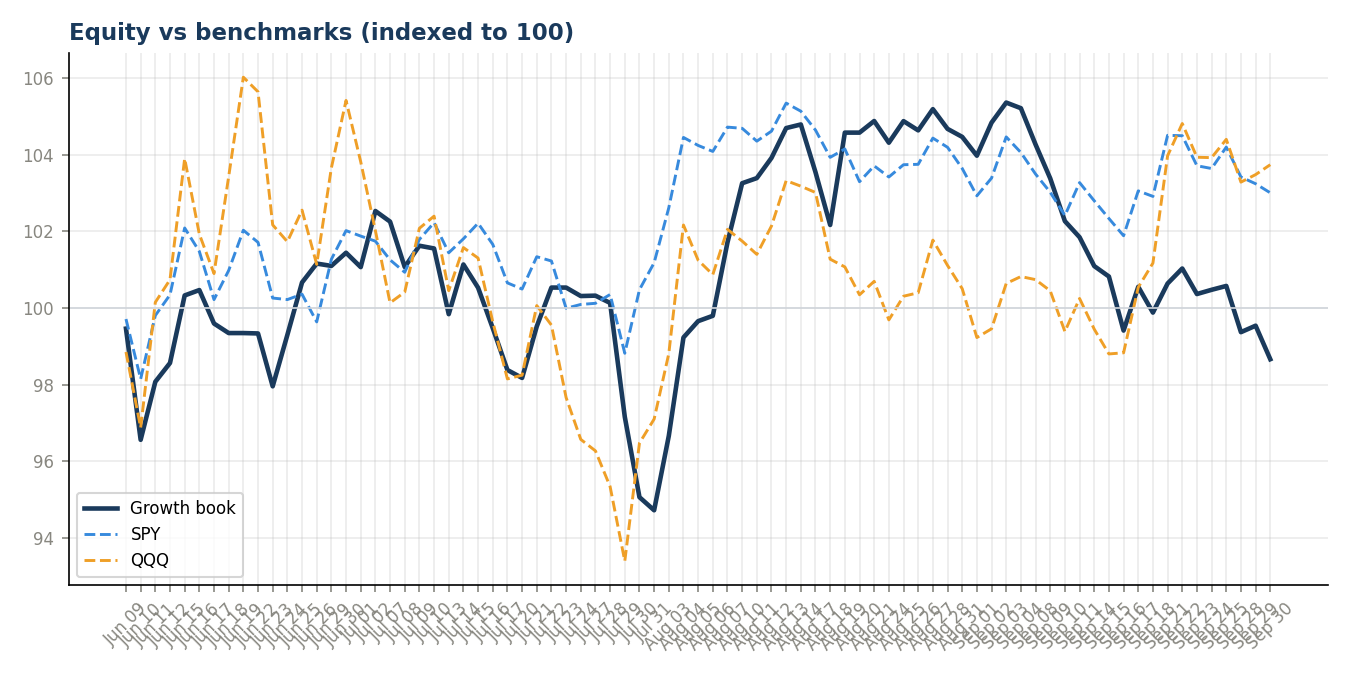
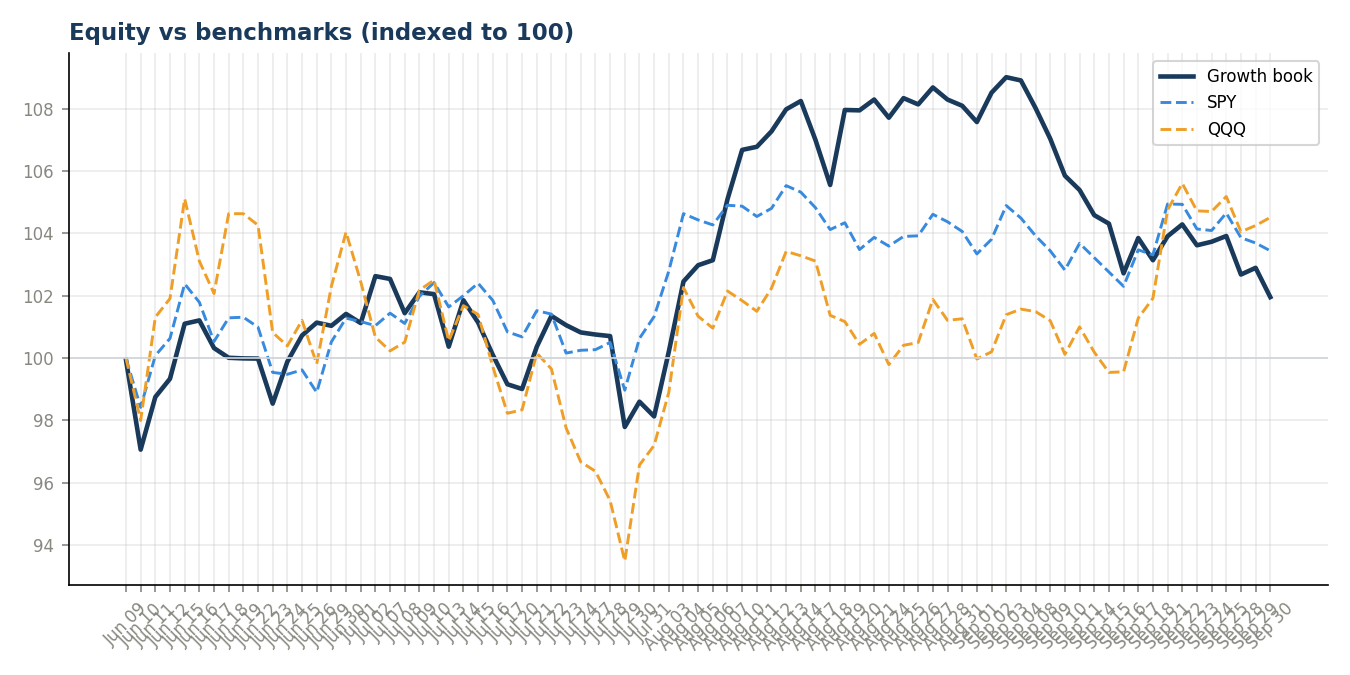
Growth month-end: equity-chained returns, period metrics, month cutoff
- Daily returns now chained from logged equity (the logger's
  day_change_pct uses Alpaca's sometimes-stale last_equity, e.g.
  2026-07-30 -2.16% on a +0.83% day; it drifted ~2.8pp in total)
- Sharpe/Sortino/Calmar/vol over the actual trading days; only annual
  return is annualized, labelled as an extrapolation (same as Momentum)
- Months chained from the go-live base so they telescope exactly
- Trades cut at the reviewed month's end (NY date): the Oct 1 rebalance
  no longer leaks into the September report
- Regenerated 2026-09 report; README Growth section updated

diff --git a/9_aria_growth/aria_growth_month_end.py b/9_aria_growth/aria_growth_month_end.py
@@ -35,6 +35,7 @@ one month are indicative, not conclusive.
 """
 
 import argparse
+import json
 import warnings
 from datetime import datetime
 from pathlib import Path
@@ -53,6 +54,7 @@ POS_FILE  = _HERE / "daily_positions.csv"
 PORT_FILE = _HERE / "daily_portfolio.csv"
 TRADE_FILE= _HERE / "growth_trade_log.csv"
 MANIFEST  = _HERE / "screens" / "_manifest.csv"
+LOG_STATE = _HERE / "daily_log_state.json"   # go-live equity_base (logger)
 
 GREEN, RED, BLUE, AMBER = "#1D9E75", "#E24B4A", "#378ADD", "#EF9F27"
 NAVY, GREY, MGREY = "#1A3A5C", "#888780", "#D1D5DB"
@@ -76,8 +78,51 @@ def load():
 # ══════════════════════════════════════════════════════════════════════════════
 # QUANT METRICS
 # ══════════════════════════════════════════════════════════════════════════════
+def _equity_base(port: pd.DataFrame) -> float:
+    """Go-live capital recorded by aria_growth_daily_log.py (the base of
+    total_pnl_pct); falls back to backing it out of the first row."""
+    try:
+        return float(json.loads(LOG_STATE.read_text())["equity_base"])
+    except Exception:
+        return float(port["equity"].iloc[0] / (1 + port["total_pnl_pct"].iloc[0] / 100))
+
+
+def period_stats(r, eqv) -> dict:
+    """Risk/return over the ACTUAL trading days only — nothing annualized
+    except ann_ret, which is an explicit extrapolation.
+    (Same definitions as 8_live_trading/aria_momentum_month_end.py.)
+
+      period_ret  compounded return over the n days
+      ann_ret     EXTRAPOLATED: (1 + period_ret)^(252/n) − 1 — a projection
+      period_vol  daily stdev × √n
+      sharpe      mean / stdev × √n            (period Sharpe, rf = 0)
+      sortino     mean / downside dev × √n     downside dev = √mean(min(r,0)²)
+      calmar      period_ret / |max drawdown|  (same window)
+    """
+    r = np.asarray(r, dtype=float); r = r[~np.isnan(r)]
+    n = len(r)
+    out = {"n_obs": n}
+    out["period_ret"] = (np.prod(1 + r) - 1) * 100
+    out["ann_ret"]    = ((1 + out["period_ret"] / 100) ** (TRADING_DAYS / n) - 1) * 100 if n else np.nan
+    mu, sd = (r.mean(), r.std(ddof=1)) if n > 1 else (np.nan, np.nan)
+    dsd = np.sqrt(np.mean(np.minimum(r, 0) ** 2)) if n else np.nan
+    out["period_vol"] = sd * np.sqrt(n) * 100 if sd > 0 else np.nan
+    out["sharpe"]     = mu / sd * np.sqrt(n) if sd > 0 else np.nan
+    out["sortino"]    = mu / dsd * np.sqrt(n) if dsd > 0 else np.nan
+    eqv = np.asarray(eqv, dtype=float)
+    out["max_dd"] = (eqv / np.maximum.accumulate(eqv) - 1).min() * 100 if len(eqv) > 1 else 0.0
+    out["calmar"] = out["period_ret"] / abs(out["max_dd"]) if out["max_dd"] < 0 else np.nan
+    return out
+
+
 def quant_metrics(port: pd.DataFrame) -> dict:
-    r = port["day_change_pct"].values / 100.0          # daily book returns
+    # Daily book returns CHAINED FROM EQUITY (first day vs the go-live base).
+    # Not day_change_pct: the logger measures that against Alpaca's
+    # last_equity, which can be stale (e.g. 2026-07-30 logs -2.16% while
+    # equity rose +0.83%); compounded it misses the logged total by ~3pp.
+    base = _equity_base(port)
+    eqv  = np.r_[base, port["equity"].values]
+    r    = eqv[1:] / eqv[:-1] - 1
     spy = port["spy_day_pct"].values / 100.0
     qqq = port["qqq_day_pct"].values / 100.0
     n = len(r)
@@ -89,20 +134,9 @@ def quant_metrics(port: pd.DataFrame) -> dict:
     m["alpha_spy"]  = m["total_ret"] - m["spy_since"]
     m["alpha_qqq"]  = m["total_ret"] - m["qqq_since"]
 
-    mu, sd = np.nanmean(r), np.nanstd(r, ddof=1)
-    downside = np.nanstd(np.minimum(r, 0), ddof=1)
-    m["ann_ret"]    = mu * TRADING_DAYS * 100
-    m["ann_vol"]    = sd * np.sqrt(TRADING_DAYS) * 100
-    m["sharpe"]     = (mu / sd * np.sqrt(TRADING_DAYS)) if sd > 0 else np.nan
-    m["sortino"]    = (mu / downside * np.sqrt(TRADING_DAYS)) if downside > 0 else np.nan
-
-    # drawdown from the daily equity curve
+    m.update(period_stats(r, eqv))
     eq = port["equity"].values
-    peak = np.maximum.accumulate(eq)
-    dd = eq / peak - 1
-    m["max_dd"] = dd.min() * 100
-    m["dd_series"] = dd * 100
-    m["calmar"] = (m["ann_ret"] / abs(m["max_dd"])) if m["max_dd"] < 0 else np.nan
+    m["dd_series"] = (eq / np.maximum.accumulate(eqv)[1:] - 1) * 100
 
     # benchmark relationship
     mask = ~np.isnan(r) & ~np.isnan(spy)
@@ -121,9 +155,10 @@ def quant_metrics(port: pd.DataFrame) -> dict:
     m["hit_rate"] = m["win_days"] / max(m["win_days"] + m["lose_days"], 1) * 100
 
     # indexed curves
-    m["idx_book"] = 100 * (1 + pd.Series(r).fillna(0)).cumprod().values
-    m["idx_spy"]  = 100 * (1 + pd.Series(spy).fillna(0)).cumprod().values
-    m["idx_qqq"]  = 100 * (1 + pd.Series(qqq).fillna(0)).cumprod().values
+    # from the cumulative columns: one shared go-live base, ends on the table
+    m["idx_book"] = 100 * port["equity"].values / base
+    m["idx_spy"]  = 100 + port["spy_since_pct"].values
+    m["idx_qqq"]  = 100 + port["qqq_since_pct"].values
     m["r"], m["spy_r"], m["qqq_r"] = r, spy, qqq
     return m
 
@@ -157,13 +192,15 @@ def month_by_month(port: pd.DataFrame) -> pd.DataFrame:
     port = port.sort_values("date").reset_index(drop=True)
     ym = port["date"].dt.to_period("M")
     months = sorted(ym.unique())
-    current_month = pd.Timestamp.now().to_period("M")
+    current_month = pd.Timestamp.now(tz="America/New_York").tz_localize(None).to_period("M")
 
     idx_spy = 100 * (1 + port["spy_since_pct"] / 100)
     idx_qqq = 100 * (1 + port["qqq_since_pct"] / 100)
 
     rows = []
-    prev_eq = prev_spy = prev_qqq = None
+    # start from the go-live base (not the first row) so the months compound
+    # exactly to the since-inception return
+    prev_eq, prev_spy, prev_qqq = _equity_base(port), 100.0, 100.0
     for i, mo in enumerate(months):
         mask = ym == mo
         g, gi_spy, gi_qqq = port[mask], idx_spy[mask], idx_qqq[mask]
@@ -346,9 +383,16 @@ def write_report(qm, pm_pos, pm_exits, trades, mbm, outdir: Path, month_tag: str
     A("\n_* partial month (first month is partial from go-live; the current "
       "month is partial too, through the latest logged row)._\n")
 
-    A("## Risk-adjusted (annualized from daily)")
+    A(f"## Risk-adjusted (over the {qm['n_obs']} trading days — not annualized)")
+    A(f"_Sharpe, Sortino, Calmar and volatility are measured over the "
+      f"{qm['n_obs']} trading days actually traded (rf = 0), from daily returns "
+      f"chained off logged equity. The only annualized figure is **Ann. return**, "
+      f"an EXTRAPOLATION: the period return compounded to 252 trading days — "
+      f"a projection, not a measurement._\n")
+    A(f"- Period return **{qm['period_ret']:+.2f}%**  |  Period vol {qm['period_vol']:.2f}%  |  "
+      f"Max drawdown {qm['max_dd']:.2f}%")
     A(f"- Sharpe: **{qm['sharpe']:.2f}**   |   Sortino: **{qm['sortino']:.2f}**   |   Calmar: {qm['calmar']:.2f}")
-    A(f"- Ann. return {qm['ann_ret']:+.1f}%  |  Ann. vol {qm['ann_vol']:.1f}%  |  Max drawdown {qm['max_dd']:.2f}%")
+    A(f"- Ann. return (extrapolated) {qm['ann_ret']:+.1f}%")
     A(f"- Beta vs SPY {qm['beta_spy']:.2f} (corr {qm['corr_spy']:.2f})")
     A(f"- Up-capture {qm['up_capture']:.0f}%  |  Down-capture {qm['down_capture']:.0f}%  "
       f"{'← winning by losing less' if qm['down_capture'] < qm['up_capture'] else ''}")
@@ -399,6 +443,11 @@ def main():
 
     pos, port, trades = load()
     month_tag = port["date"].max().strftime("%Y-%m")
+    # Only trades up to the end of the reviewed month (New York date): the
+    # next month's rebalance can be placed before its first daily-log row.
+    cutoff = pd.Period(month_tag, "M").end_time
+    ts = pd.to_datetime(trades["timestamp"], utc=True).dt.tz_convert("America/New_York").dt.tz_localize(None)
+    trades = trades[ts <= cutoff].reset_index(drop=True)
     outdir = _HERE / "month_end" / month_tag
     outdir.mkdir(parents=True, exist_ok=True)
 
@@ -416,7 +465,9 @@ def main():
     print("=" * 66)
     print(f"  Return   : {qm['total_ret']:+.2f}%   (SPY {qm['spy_since']:+.2f}%, QQQ {qm['qqq_since']:+.2f}%)")
     print(f"  Alpha    : vs SPY {qm['alpha_spy']:+.2f}pp | vs QQQ {qm['alpha_qqq']:+.2f}pp")
-    print(f"  Sharpe   : {qm['sharpe']:.2f}   Sortino {qm['sortino']:.2f}   MaxDD {qm['max_dd']:.2f}%")
+    print(f"  Period   : {qm['n_obs']}d  Sharpe {qm['sharpe']:.2f}   Sortino {qm['sortino']:.2f}   "
+          f"Calmar {qm['calmar']:.2f}   vol {qm['period_vol']:.2f}%  (not annualized)")
+    print(f"  Ann. ret : {qm['ann_ret']:+.1f}% (extrapolated)   MaxDD {qm['max_dd']:.2f}%")
     print(f"  Beta     : {qm['beta_spy']:.2f}   Up-cap {qm['up_capture']:.0f}%  Down-cap {qm['down_capture']:.0f}%")
     print(f"  Hit rate : {qm['hit_rate']:.0f}%  ({qm['win_days']}W/{qm['lose_days']}L)")
     if len(pm_exits):

diff --git a/README.md b/README.md
@@ -596,27 +596,36 @@ QQQ +0.1%, GLD -6.3% ($37,762 at cost).
 | Return since go-live   | **+1.96%** | +3.44%  | +4.51%  |
 | Alpha                   | —          | -1.48pp | -2.55pp |
 
-**Risk-adjusted** (annualized from daily):
+**Risk-adjusted** — measured over the 79 trading days actually traded, not
+annualized (daily returns chained from logged equity, rf = 0):
 
-| Sharpe    | Sortino   | Calmar    | Ann. return | Ann. vol | Max drawdown |
-| --------- | --------- | --------- | ----------- | -------- | ------------- |
-| **-0.17** | **-0.28** | **-0.44** | -2.9%       | 17.0%    | **-6.47%**    |
+| Period return | Sharpe   | Sortino  | Calmar   | Period vol | Max drawdown | Ann. return (extrapolated) |
+| ------------- | -------- | -------- | -------- | ---------- | ------------- | -------------------------- |
+| **+1.96%**    | **0.26** | **0.37** | **0.30** | 9.13%      | **-6.47%**    | +6.4%                      |
 
-Beta vs SPY 0.83 (corr 0.60) · up-capture 74% / down-capture 89% (now losing
-more on down days than it captures on up days) · hit rate 47% (36W/40L) ·
-best day +2.66% · worst -2.97%.
+_Same method as ARIA-Momentum: only **Ann. return** is annualized, as an
+**extrapolation** of the 79-day return to 252 trading days — not a measured
+result. Daily returns now come from the logged equity curve; the logger's
+own day-change column was measured against a sometimes-stale Alpaca
+prior-day value (e.g. 2026-07-30 showed -2.16% on a +0.83% day), which had
+pushed the previously published Sharpe to -0.17._
+
+Beta vs SPY 0.92 (corr 0.69) · up-capture 83% / down-capture 84% (losing
+about as much on down days as it captures on up days) · hit rate 46%
+(36W/43L) · best day +2.28% · worst -2.89%.
 
 **Month-by-month:**
 
 | Month     | Days | Book    | SPY    | QQQ    | vs SPY  | vs QQQ  |
 | --------- | ---- | ------- | ------ | ------ | ------- | ------- |
-| Jun 2026* | 16   | +1.48%  | +1.29% | +4.04% | +0.19pp | -2.56pp |
+| Jun 2026* | 16   | +1.42%  | +1.28% | +4.04% | +0.14pp | -2.62pp |
 | Jul 2026  | 21   | -3.24%  | +0.05% | -6.57% | -3.29pp | +3.33pp |
 | Aug 2026  | 21   | +10.15% | +2.69% | +4.18% | +7.46pp | +5.97pp |
 | Sep 2026  | 21   | -5.68%  | -0.60% | +3.21% | -5.08pp | -8.89pp |
 
-_* partial month — June starts at the 2026-06-09 go-live. August is now a
-full month (revised from the partial +10.35% shown in the Aug 31 report)._
+_* partial month — June starts at the 2026-06-09 go-live capital. The four
+months compound exactly to the since-go-live return. August is a full month
+(revised from the partial +10.35% shown in the Aug 31 report)._
 
 16 open positions (10 in profit as of 2026-09-30); best PLTR +40.6%, worst
 EQT -9.1% (danger zone, <10pt to stop: EQT, EXE, VST, CVNA, BG). 10 exits

diff --git a/9_aria_growth/month_end/2026-09/report_2026-09.md b/9_aria_growth/month_end/2026-09/report_2026-09.md
@@ -1,6 +1,6 @@
 # ARIA-Growth — Month-End Review 2026-09
 
-_Generated 2026-10-01 02:06. Read-only analysis; 79 trading days of data._
+_Generated 2026-10-01 18:49. Read-only analysis; 79 trading days of data._
 
 > **Sample-size caveat:** one month verifies the machinery and shows behavior; it cannot prove or disprove edge. Treat every number below as indicative, not conclusive.
 
@@ -13,19 +13,22 @@ _Generated 2026-10-01 02:06. Read-only analysis; 79 trading days of data._
 ## Month-by-month
 | Month | Days | Book | SPY | QQQ | vs SPY | vs QQQ |
 |---|---|---|---|---|---|---|
-| Jun 2026* | 16 | +1.48% | +1.29% | +4.04% | +0.19pp | -2.56pp |
+| Jun 2026* | 16 | +1.42% | +1.28% | +4.04% | +0.14pp | -2.62pp |
 | Jul 2026 | 21 | -3.24% | +0.05% | -6.57% | -3.29pp | +3.33pp |
 | Aug 2026 | 21 | +10.15% | +2.69% | +4.18% | +7.46pp | +5.97pp |
 | Sep 2026 | 21 | -5.68% | -0.60% | +3.21% | -5.08pp | -8.89pp |
 
 _* partial month (first month is partial from go-live; the current month is partial too, through the latest logged row)._
 
-## Risk-adjusted (annualized from daily)
-- Sharpe: **-0.17**   |   Sortino: **-0.28**   |   Calmar: -0.44
-- Ann. return -2.9%  |  Ann. vol 17.0%  |  Max drawdown -6.47%
-- Beta vs SPY 0.83 (corr 0.60)
-- Up-capture 74%  |  Down-capture 89%  
-- Hit rate 47% (36W / 40L)  |  best day +2.66%  worst -2.97%
+## Risk-adjusted (over the 79 trading days — not annualized)
+_Sharpe, Sortino, Calmar and volatility are measured over the 79 trading days actually traded (rf = 0), from daily returns chained off logged equity. The only annualized figure is **Ann. return**, an EXTRAPOLATION: the period return compounded to 252 trading days — a projection, not a measurement._
+
+- Period return **+1.96%**  |  Period vol 9.13%  |  Max drawdown -6.47%
+- Sharpe: **0.26**   |   Sortino: **0.37**   |   Calmar: 0.30
+- Ann. return (extrapolated) +6.4%
+- Beta vs SPY 0.92 (corr 0.69)
+- Up-capture 83%  |  Down-capture 84%  
+- Hit rate 46% (36W / 43L)  |  best day +2.28%  worst -2.89%
 
 ## Open book
 - 16 positions, 10 in profit as of 2026-09-30
